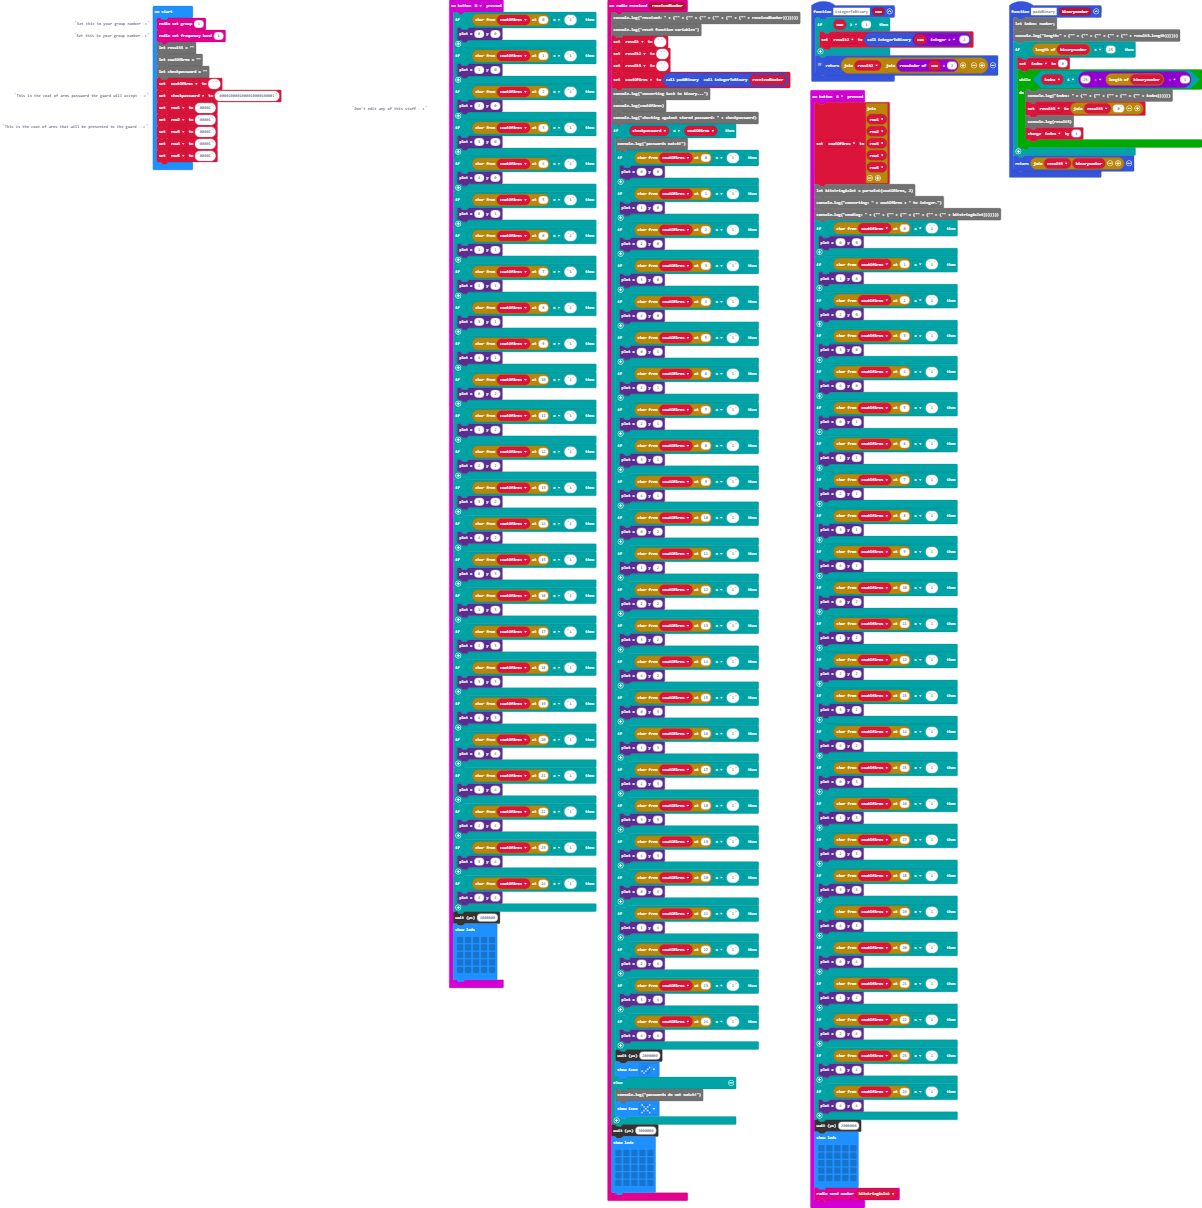
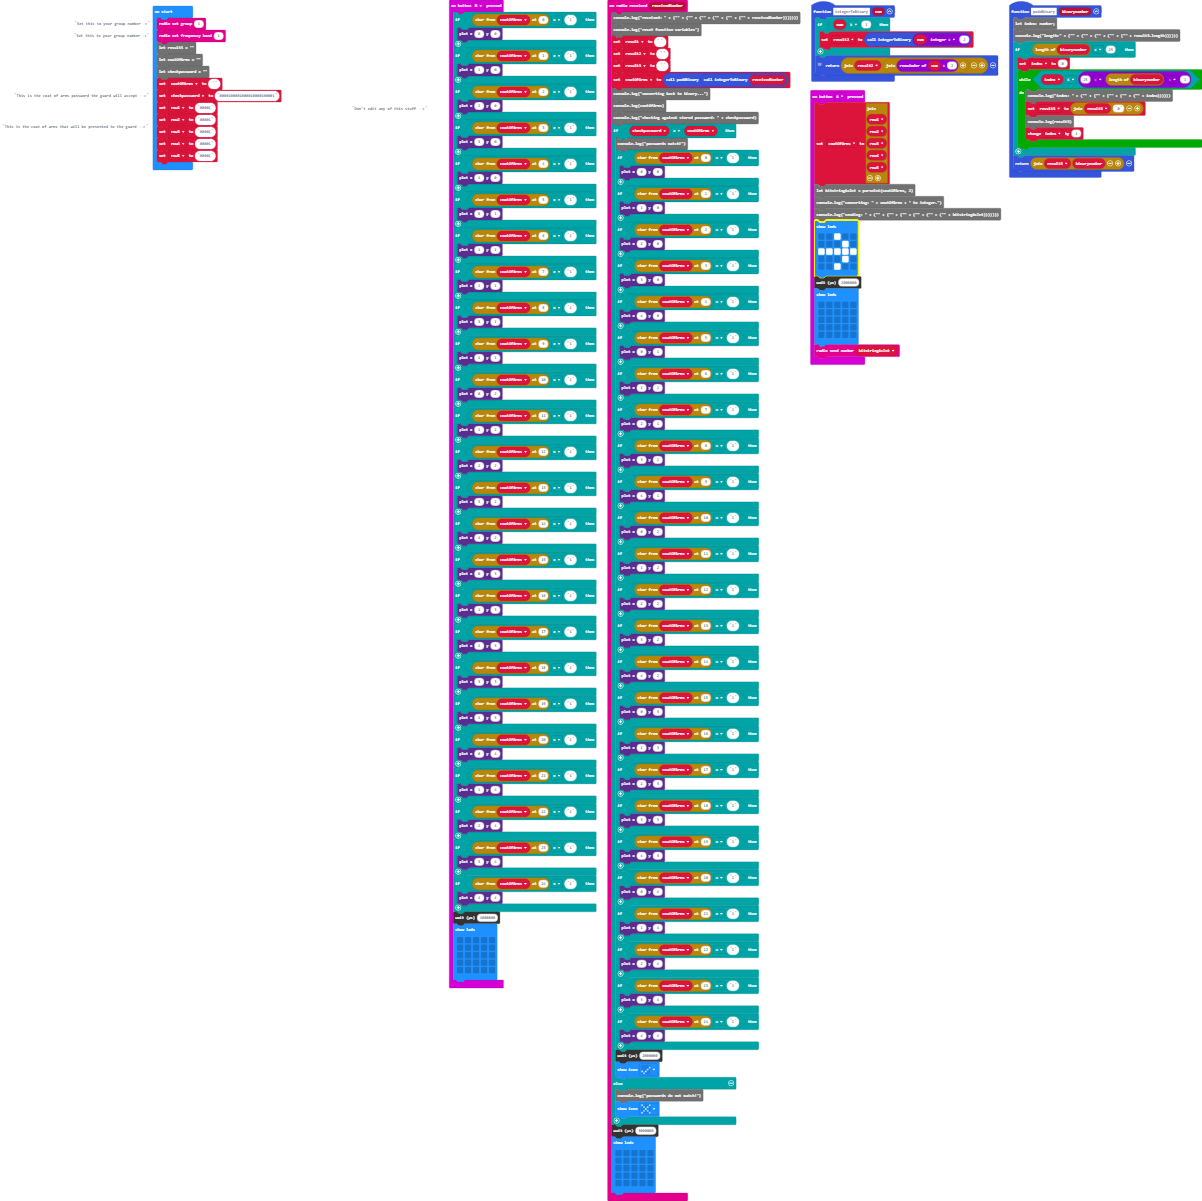
added send arrow

diff --git a/main.ts b/main.ts
@@ -112,81 +112,13 @@ input.onButtonPressed(Button.A, function () {
     let bitstringAsInt = parseInt(coatOfArms, 2)
 console.log("converting: " + coatOfArms + " to integer.")
 console.log("sending: " + ("" + ("" + ("" + ("" + ("" + ("" + bitstringAsInt)))))))
-if (coatOfArms.charAt(0) == "1") {
-        led.plot(0, 0)
-    }
-    if (coatOfArms.charAt(1) == "1") {
-        led.plot(1, 0)
-    }
-    if (coatOfArms.charAt(2) == "1") {
-        led.plot(2, 0)
-    }
-    if (coatOfArms.charAt(3) == "1") {
-        led.plot(3, 0)
-    }
-    if (coatOfArms.charAt(4) == "1") {
-        led.plot(4, 0)
-    }
-    if (coatOfArms.charAt(5) == "1") {
-        led.plot(0, 1)
-    }
-    if (coatOfArms.charAt(6) == "1") {
-        led.plot(1, 1)
-    }
-    if (coatOfArms.charAt(7) == "1") {
-        led.plot(2, 1)
-    }
-    if (coatOfArms.charAt(8) == "1") {
-        led.plot(3, 1)
-    }
-    if (coatOfArms.charAt(9) == "1") {
-        led.plot(4, 1)
-    }
-    if (coatOfArms.charAt(10) == "1") {
-        led.plot(0, 2)
-    }
-    if (coatOfArms.charAt(11) == "1") {
-        led.plot(1, 2)
-    }
-    if (coatOfArms.charAt(12) == "1") {
-        led.plot(2, 2)
-    }
-    if (coatOfArms.charAt(13) == "1") {
-        led.plot(3, 2)
-    }
-    if (coatOfArms.charAt(14) == "1") {
-        led.plot(4, 2)
-    }
-    if (coatOfArms.charAt(15) == "1") {
-        led.plot(0, 3)
-    }
-    if (coatOfArms.charAt(16) == "1") {
-        led.plot(1, 3)
-    }
-    if (coatOfArms.charAt(17) == "1") {
-        led.plot(2, 3)
-    }
-    if (coatOfArms.charAt(18) == "1") {
-        led.plot(3, 3)
-    }
-    if (coatOfArms.charAt(19) == "1") {
-        led.plot(4, 3)
-    }
-    if (coatOfArms.charAt(20) == "1") {
-        led.plot(0, 4)
-    }
-    if (coatOfArms.charAt(21) == "1") {
-        led.plot(1, 4)
-    }
-    if (coatOfArms.charAt(22) == "1") {
-        led.plot(2, 4)
-    }
-    if (coatOfArms.charAt(23) == "1") {
-        led.plot(3, 4)
-    }
-    if (coatOfArms.charAt(24) == "1") {
-        led.plot(4, 4)
-    }
+basic.showLeds(`
+        . . # . .
+        . . . # .
+        # # # # #
+        . . . # .
+        . . # . .
+        `)
     control.waitMicros(2000000)
     basic.showLeds(`
         . . . . .
